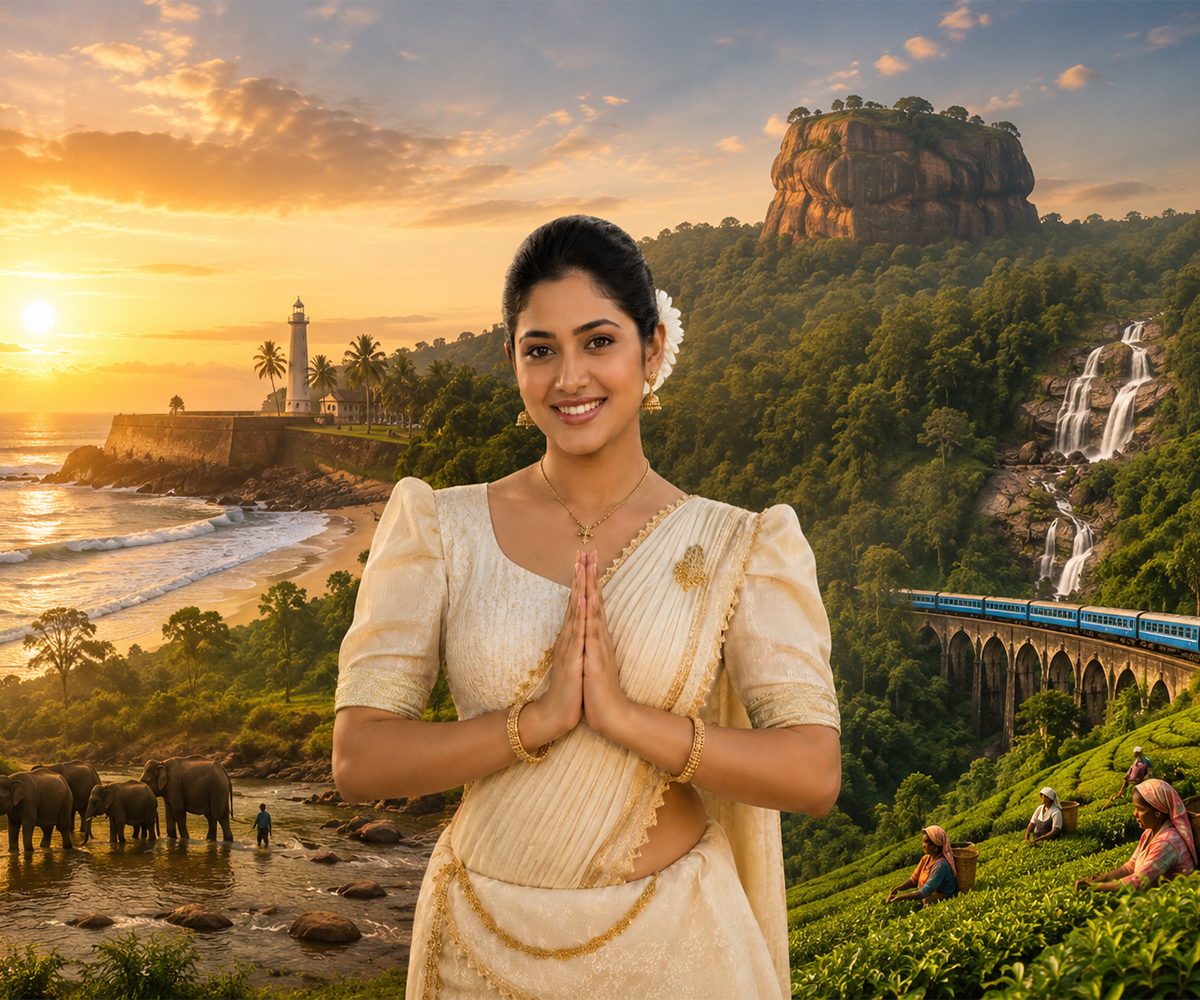
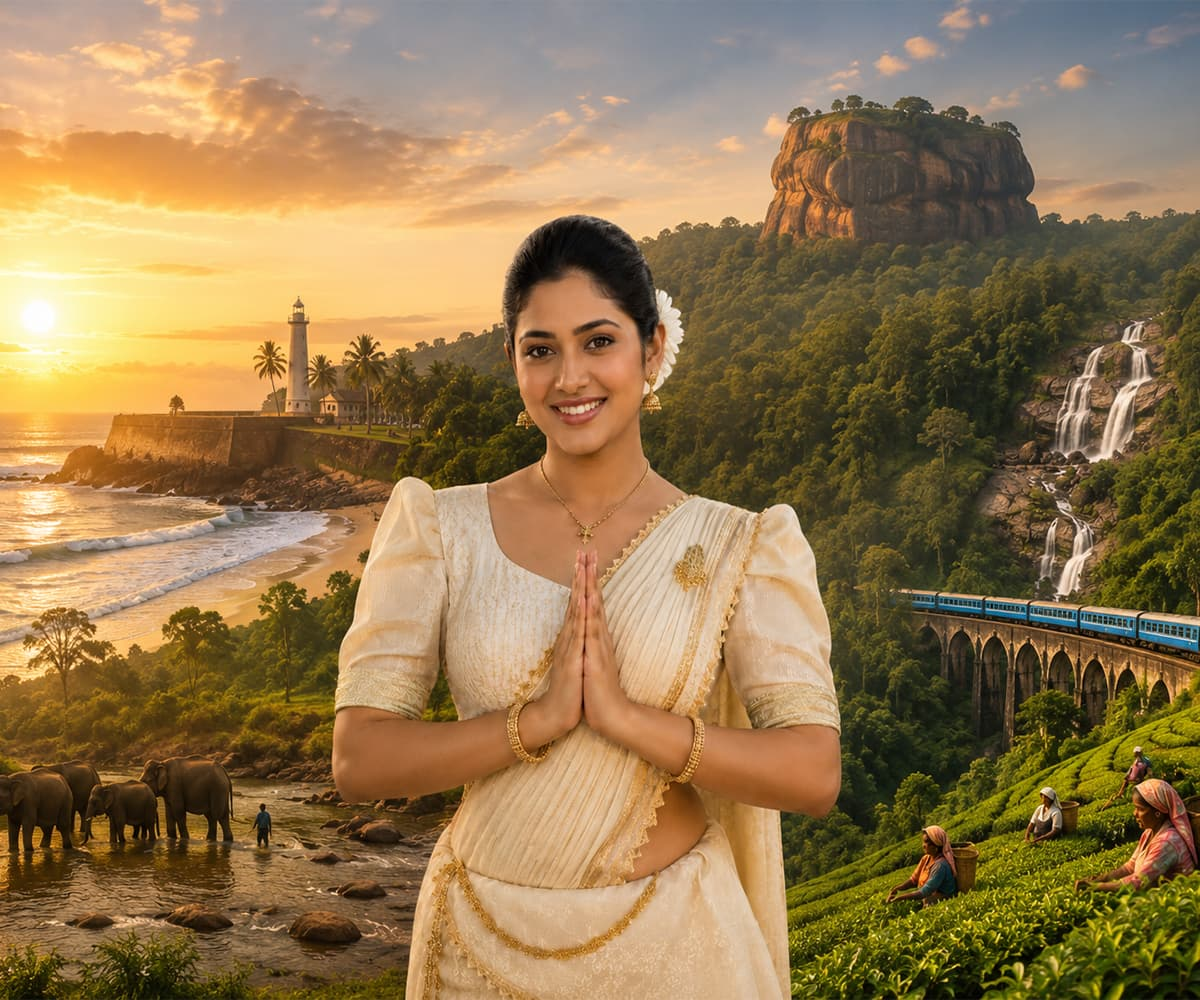
Add responsive mobile hero images

diff --git a/src/components/home/Hero.tsx b/src/components/home/Hero.tsx
@@ -12,6 +12,7 @@ type HeroSlide = {
   type: "Inbound" | "Outbound";
   description: string;
   image: string;
+  mobileImage: string;
 };
 
 const slides: HeroSlide[] = [
@@ -22,7 +23,18 @@ const slides: HeroSlide[] = [
     type: "Inbound",
     description:
       "Explore sacred temples, cultural heritage, misty hills, and timeless Sri Lankan traditions.",
-    image: "/images/kandy-temple-of-tooth-relic.png",
+    image: "/images/kandy-temple-of-tooth-relic.jpg",
+    mobileImage: "/images/kandy-temple-of-tooth-relic-mobile.jpg",
+  },
+  {
+    title: "VMC Fleet",
+    heading: "Travel Sri Lanka In Comfort.",
+    country: "Sri Lanka",
+    type: "Inbound",
+    description:
+      "Enjoy safe, comfortable, and reliable private transport with Visit My City across Sri Lanka.",
+    image: "/images/vmc-fleet-support.jpg",
+    mobileImage: "/images/vmc-fleet-support-mobile.jpg",
   },
   {
     title: "Galle",
@@ -31,7 +43,18 @@ const slides: HeroSlide[] = [
     type: "Inbound",
     description:
       "Walk through colonial streets, oceanfront views, golden sunsets, and southern coastal charm.",
-    image: "/images/galle.png",
+    image: "/images/galle.jpg",
+    mobileImage: "/images/galle-mobile.jpg",
+  },
+  {
+    title: "Tuk Tuk Tour",
+    heading: "Discover Sri Lanka By Tuk Tuk.",
+    country: "Sri Lanka",
+    type: "Inbound",
+    description:
+      "Experience colorful local streets, friendly guides, cultural stops, and authentic Sri Lankan moments.",
+    image: "/images/vmc-tuk-tuk-tour.jpg",
+    mobileImage: "/images/vmc-tuk-tuk-tour-mobile.jpg",
   },
   {
     title: "Dubai",
@@ -40,7 +63,8 @@ const slides: HeroSlide[] = [
     type: "Outbound",
     description:
       "Plan luxury city escapes, shopping tours, family holidays, and unforgettable skyline experiences.",
-    image: "/images/dubai.png",
+    image: "/images/dubai.jpg",
+    mobileImage: "/images/dubai-mobile.jpg",
   },
   {
     title: "Azerbaijan",
@@ -49,7 +73,8 @@ const slides: HeroSlide[] = [
     type: "Outbound",
     description:
       "Discover Baku, mountain landscapes, rich culture, modern cities, and unique Caucasus adventures.",
-    image: "/images/azerbaijan.png",
+    image: "/images/azerbaijan.jpg",
+    mobileImage: "/images/azerbaijan-mobile.jpg",
   },
 ];
 
@@ -75,11 +100,14 @@ const Hero = () => {
             key={slide.title}
             className="relative h-[760px] w-full md:h-screen"
           >
-            <img
-              src={slide.image}
-              alt={`${slide.title} ${slide.country}`}
-              className="h-full w-full object-cover"
-            />
+            <picture className="block h-full w-full">
+              <source media="(max-width: 767px)" srcSet={slide.mobileImage} />
+              <img
+                src={slide.image}
+                alt={`${slide.title} ${slide.country}`}
+                className="h-full w-full object-cover"
+              />
+            </picture>
 
             <div className="absolute inset-0 bg-gradient-to-r from-[#071827]/88 via-[#071827]/58 to-[#071827]/12" />
             <div className="absolute inset-0 bg-gradient-to-t from-[#071827]/45 via-transparent to-[#071827]/20" />

diff --git a/src/components/home/WelcomeSriLankaSection.tsx b/src/components/home/WelcomeSriLankaSection.tsx
@@ -14,14 +14,14 @@ const WelcomeSriLankaSection = () => {
                 className="h-[420px] w-full rounded-[1.5rem] object-cover sm:h-[520px] lg:h-[580px]"
               />
   
-              <div className="absolute bottom-6 left-6 right-6 rounded-2xl border border-white/30 bg-white/85 p-4 shadow-lg backdrop-blur-md">
+              {/* <div className="absolute bottom-6 left-6 right-6 rounded-2xl border border-white/30 bg-white/85 p-4 shadow-lg backdrop-blur-md">
                 <p className="text-xs font-semibold uppercase tracking-[0.25em] text-amber-700">
                   Ayubowan
                 </p>
                 <h3 className="mt-1 text-lg font-semibold text-slate-950">
                   A warm Sri Lankan welcome, from the moment you arrive.
                 </h3>
-              </div>
+              </div> */}
             </div>
           </div>
   
